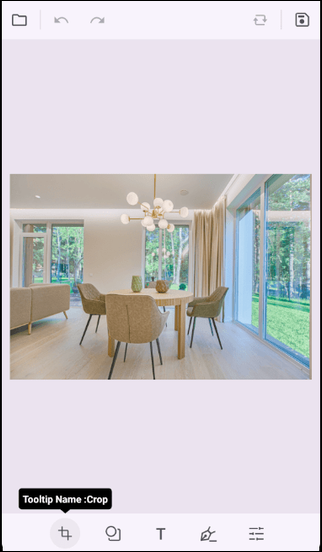
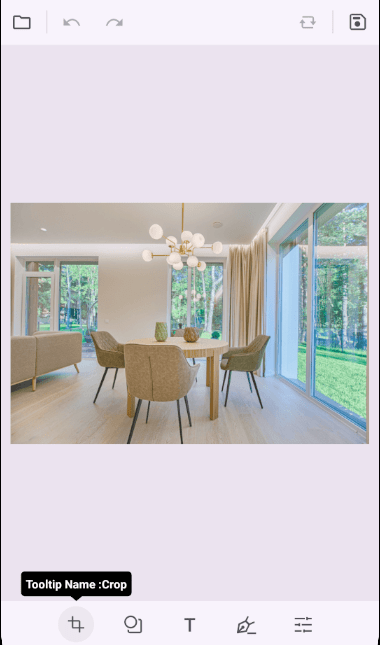
updated code snippet for imageeditor tooltip customization

diff --git a/MAUI/ImageEditor/toolbar-customization.md b/MAUI/ImageEditor/toolbar-customization.md
@@ -735,13 +735,25 @@ The following code example shows the usage of `DataTemplate`.
 {% highlight xaml tabtitle="XAML" hl_lines="2 3 4 5 6 7 8 " %}
 
 <imageEditor:SfImageEditor Source="image.png">
-    <imageEditor:SfImageEditor.ToolTipTemplate>
-        <DataTemplate>
-            <VerticalStackLayout Spacing="4">
-                <Label Text="{Binding Name}" />
-            </VerticalStackLayout>
-        </DataTemplate>
-    </imageEditor:SfImageEditor.ToolTipTemplate>
+  <imageEditor:SfImageEditor.ToolTipTemplate>
+    <DataTemplate>
+        <Grid RowDefinitions="Auto">
+            <HorizontalStackLayout Spacing="2">
+                <Label
+                    Text="Tooltip Name :"
+                    FontAttributes="Bold"
+                    FontSize="12"
+                    TextColor="White" />
+
+                <Label
+                    Text="{Binding Name}"
+                    FontAttributes="Bold"
+                    FontSize="12"
+                    TextColor="White" />
+            </HorizontalStackLayout>
+        </Grid>
+    </DataTemplate>
+</imageEditor:SfImageEditor.ToolTipTemplate>
 </imageEditor:SfImageEditor>
 
 {% endhighlight %}
